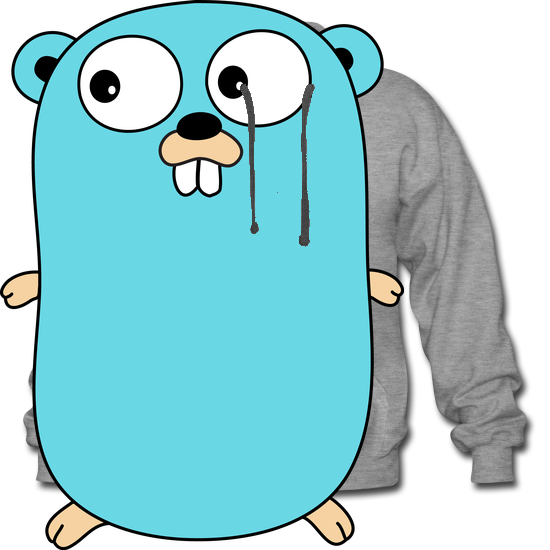
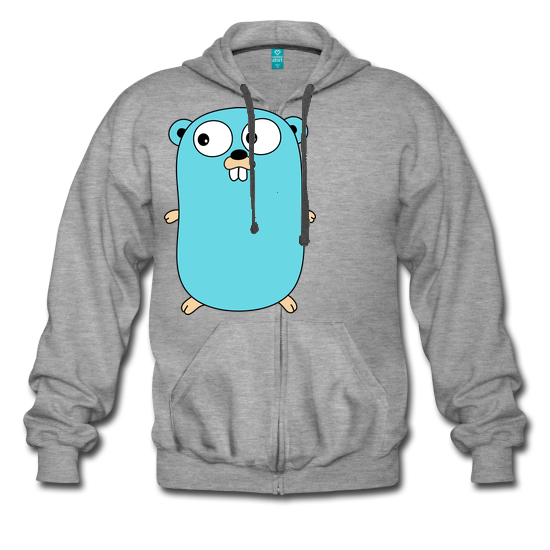
Resize source image to fit in bounds of base

diff --git a/main.go b/main.go
@@ -8,9 +8,12 @@ import (
 	"image/draw"
 	"image/png"
     "github.com/disintegration/imaging"
+	"fmt"
 )
 
-const base string = "hoodie"
+const base = "hoodie"
+var topLeftBound = image.Pt(164, 107)
+var bottomRightBound = image.Pt(387, 315)
 
 func check(e error) {
 	if e != nil {
@@ -73,10 +76,16 @@ func main() {
 	output, err := os.OpenFile("out.png", os.O_CREATE|os.O_WRONLY, 0644)
 	check(err)
 
-	sourceImage = imaging.Fit(sourceImage, size.Max.X, size.Max.Y, imaging.Lanczos)
+	boundsSize := image.Pt(bottomRightBound.X-topLeftBound.X, bottomRightBound.Y-topLeftBound.Y)
+	bounds := image.Rect(topLeftBound.X, topLeftBound.Y, bottomRightBound.X, bottomRightBound.Y)
+
+	fmt.Println(boundsSize)
+	fmt.Println(bounds)
+
+	sourceImage = imaging.Fit(sourceImage, boundsSize.X, boundsSize.Y, imaging.Lanczos)
 
 	draw.Draw(finalImage, finalImage.Bounds(), backImage, image.Pt(0, 0), draw.Over)
-	draw.Draw(finalImage, finalImage.Bounds(), sourceImage, image.Pt(0, 0), draw.Over)
+	draw.Draw(finalImage, bounds, sourceImage, image.Pt(0,0), draw.Over)
 	draw.Draw(finalImage, finalImage.Bounds(), frontImage, image.Pt(0, 0), draw.Over)
 
 	png.Encode(output, finalImage)
